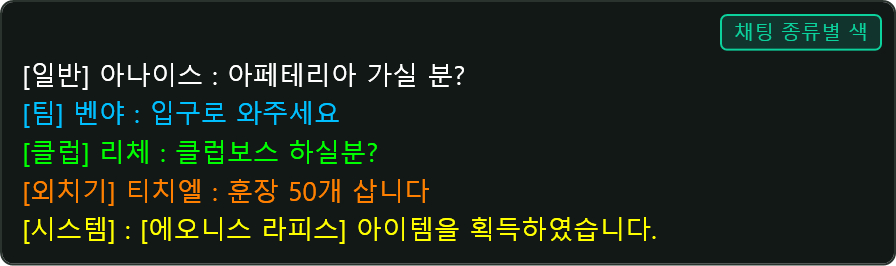
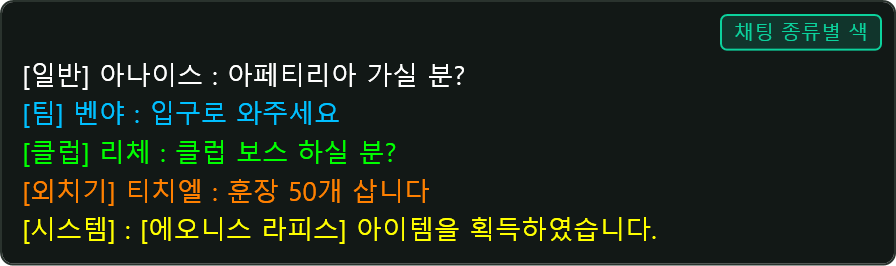
fix: 릴리즈 전 오타·표기 일괄 정리 + 도움말 이미지 재생성
- 도움말: '표시 되어질'→'표시할', '[혐사]으로'→'[혐사]로', '외치기 다시 보기'→'외치기 로그'(실제 UI 명칭), 서브 채팅창 탭 목록을 실제 5개(일반/팀/클럽/외치기/시스템)로 수정
- 잠금 해제 창 이름: '던전 카운터'→'던전 도우미', '탈환 보급 알림'→'보급품 탈환'
- 표기 통일: '일간/주간·콘텐츠'→'일일/주간 컨텐츠'(표시 문자열만, 저장 키 불변), '어밴던 누적 합계'→'어밴던로드 누적 합계', '1:1 채팅 에타레벨 확인'→'1:1 대화 에타 레벨 확인', '1 시간 예상'→'1시간 예상'
- 맞춤법: '초기화 진행중'→'진행 중', '이번달'→'이번 달', '로딩 중..'→'로딩 중...'
- 도움말 예시 텍스트: '아페테리아'→'아페티리아', '클럽보스 하실분'→'클럽 보스 하실 분', '5초후'→'5초 후' — 해당 이미지 7장 재생성
- 경험의 정수 교환 로그 매칭 상수 통일: '경험치가 100억이'→'경험치 100억이' (LogTextClassifier·아카이브와 일치)

Changed region(s): [[0.25, 0.5113, 0.4375, 0.6316], [0.3125, 0.2406, 0.3438, 0.3308]]

diff --git a/Views/Overlays/ItemCalendarWindow.xaml b/Views/Overlays/ItemCalendarWindow.xaml
@@ -53,7 +53,7 @@
                                 Margin="0,0,6,0"
                                 Style="{StaticResource CalendarTitleButtonStyle}"
                                 Click="PreviousMonth_Click"/>
-                        <Button Content="이번달"
+                        <Button Content="이번 달"
                                 Width="76"
                                 Margin="0,0,6,0"
                                 Style="{StaticResource CalendarTitleButtonStyle}"
@@ -378,7 +378,7 @@
                                     Padding="9"
                                     Margin="0,0,0,10">
                                 <StackPanel>
-                                    <TextBlock Text="어밴던 누적 합계"
+                                    <TextBlock Text="어밴던로드 누적 합계"
                                                Foreground="{DynamicResource TextBrush}"
                                                FontSize="{Binding ItemCalendarFontSize, Converter={StaticResource AddValueConverter}, ConverterParameter=1}"
                                                FontWeight="SemiBold"

diff --git a/Views/Controls/SettingsView.xaml b/Views/Controls/SettingsView.xaml
@@ -787,7 +787,7 @@
                             <Border Style="{StaticResource SettingsRowStyle}">
                                 <DockPanel>
                                     <TextBox DockPanel.Dock="Right" Width="120" Text="{Binding ToggleDailyWeeklyContentHotKey, Mode=TwoWay, UpdateSourceTrigger=PropertyChanged}" Style="{StaticResource SettingsRowInputStyle}" PreviewKeyDown="HotKeyInput_PreviewKeyDown" PreviewMouseLeftButtonDown="HotKeyTextBox_PreviewMouseLeftButtonDown" IsReadOnly="True" Tag="HotKey"/>
-                                    <TextBlock Text="일일/주간 콘텐츠" Style="{StaticResource SettingsRowLabelStyle}"/>
+                                    <TextBlock Text="일일/주간 컨텐츠" Style="{StaticResource SettingsRowLabelStyle}"/>
                                 </DockPanel>
                             </Border>
                             <Border Style="{StaticResource SettingsRowStyle}">

diff --git a/Views/Overlays/ShoutReplayWindow.xaml b/Views/Overlays/ShoutReplayWindow.xaml
@@ -117,7 +117,7 @@
                     </Border>
                     <Border x:Name="LoadingOverlay" Background="{DynamicResource OverlayLoadingMaskBrush}" Visibility="Collapsed" CornerRadius="2">
                         <StackPanel HorizontalAlignment="Center" VerticalAlignment="Center">
-                            <TextBlock Text="로딩 중.." Foreground="{DynamicResource TextBrush}" FontSize="18" HorizontalAlignment="Center"/>
+                            <TextBlock Text="로딩 중..." Foreground="{DynamicResource TextBrush}" FontSize="18" HorizontalAlignment="Center"/>
                             <ProgressBar IsIndeterminate="True" Width="180" Height="12" Margin="0,10,0,0"/>
                         </StackPanel>
                     </Border>

diff --git a/Views/Overlays/MessengerEtaToastWindow.xaml b/Views/Overlays/MessengerEtaToastWindow.xaml
@@ -39,7 +39,7 @@
                     MouseLeftButtonDown="TitleBar_MouseLeftButtonDown">
                 <Grid>
                     <TextBlock x:Name="TitleText"
-                               Text="1:1 채팅 에타레벨 확인"
+                               Text="1:1 대화 에타 레벨 확인"
                                Foreground="{DynamicResource TextBrush}"
                                FontSize="16"
                                FontWeight="SemiBold"

diff --git a/Views/Controls/ExpTrackerView.xaml b/Views/Controls/ExpTrackerView.xaml
@@ -92,7 +92,7 @@
                        FontWeight="Bold"/>
 
             <TextBlock Grid.Row="0" Grid.Column="2"
-                       Text="1 시간 예상 :"
+                       Text="1시간 예상 :"
                        Style="{StaticResource ExpFieldLabelStyle}"/>
             <TextBlock Grid.Row="0" Grid.Column="3"
                        Text="{Binding ExpPerHourDisplay}"

diff --git a/Views/Overlays/DailyWeeklyContentWindow.xaml b/Views/Overlays/DailyWeeklyContentWindow.xaml
@@ -4,7 +4,7 @@
         xmlns:views="clr-namespace:TWChatOverlay.Views"
         xmlns:models="clr-namespace:TWChatOverlay.Models"
         xmlns:converters="clr-namespace:TWChatOverlay.Converters"
-        Title="일간/주간 컨텐츠 확인"
+        Title="일일/주간 컨텐츠"
         Width="280" Height="540"
         Background="Transparent"
         AllowsTransparency="True"

diff --git a/Services/Diagnostics/HelpShotRenderer.cs b/Services/Diagnostics/HelpShotRenderer.cs
@@ -45,9 +45,9 @@ namespace TWChatOverlay.Services
 
             // ── 기본 채팅 필터: 종류별 색 한눈에 ──
             Save(outDir, "chat_filter.png", Panel("채팅 종류별 색",
-                Line(NormalCol, ("[일반] 아나이스 : 아페테리아 가실 분?", NormalCol)),
+                Line(NormalCol, ("[일반] 아나이스 : 아페티리아 가실 분?", NormalCol)),
                 Line(TeamCol, ("[팀] 벤야 : 입구로 와주세요", TeamCol)),
-                Line(ClubCol, ("[클럽] 리체 : 클럽보스 하실분?", ClubCol)),
+                Line(ClubCol, ("[클럽] 리체 : 클럽 보스 하실 분?", ClubCol)),
                 Line(ShoutCol, ("[외치기] 티치엘 : 훈장 50개 삽니다", ShoutCol)),
                 Line(SystemCol, ("[시스템] : [에오니스 라피스] 아이템을 획득하였습니다.",SystemCol))));
 
@@ -65,13 +65,13 @@ namespace TWChatOverlay.Services
             Save(outDir, "chat_id_eta_range_off.png", PanelToggle(false,
                 Line(NormalCol, ("보리스", NormalCol), ("[15]", NormalCol), (" : 반가워요", NormalCol)),
                 Line(NormalCol, ("벤야", NormalCol), ("[55]", NormalCol), (" : 어비스 가실 분?", NormalCol)),
-                Line(NormalCol, ("아나이스", NormalCol), ("[92]", NormalCol), (" : 클럽보스 5초후 잡아요", NormalCol))));
+                Line(NormalCol, ("아나이스", NormalCol), ("[92]", NormalCol), (" : 클럽 보스 5초 후 잡아요", NormalCol))));
             Save(outDir, "chat_id_eta_range_on.png", PanelToggle(true,
                 Line(NormalCol, ("보리스", NormalCol), ("[15]", Range1Col), (" : ㅎㅇ", NormalCol)),
                 Line(NormalCol, ("루시안", NormalCol), ("[33]", Range2Col), (" : 에오니스 라피스 팝니다", NormalCol)),
                 Line(NormalCol, ("벤야", NormalCol), ("[55]", Range3Col), (" : 어비스 가실 분?", NormalCol)),
                 Line(NormalCol, ("로아미니", NormalCol), ("[71]", Range4Col), (" : 상실의 섬으로 와주세요", NormalCol)),
-                Line(NormalCol, ("아나이스", NormalCol), ("[92]", Range5Col), (" : 클럽 보스 5초후 잡아요", NormalCol))));
+                Line(NormalCol, ("아나이스", NormalCol), ("[92]", Range5Col), (" : 클럽 보스 5초 후 잡아요", NormalCol))));
 
             // ── 캐릭터 ──
             Save(outDir, "chat_id_character_off.png", PanelToggle(false,
@@ -111,12 +111,12 @@ namespace TWChatOverlay.Services
             Save(outDir, "chat_category_prefix_off.png", PanelToggle(false,
                 Line(NormalCol, ("아나이스 : 어비스 가실 분?", NormalCol)),
                 Line(TeamCol, ("로아미니 : 상실의 섬으로 와주세요", TeamCol)),
-                Line(ClubCol, ("벤야 : 클럽 보스 5초후 잡아요", ClubCol)),
+                Line(ClubCol, ("벤야 : 클럽 보스 5초 후 잡아요", ClubCol)),
                 Line(ShoutCol, ("외치기 : 훈장 50개 삽니다 [티치엘]", ShoutCol))));
             Save(outDir, "chat_category_prefix_on.png", PanelToggle(true,
                 Line(NormalCol, ("[일반] ", NormalCol), ("아나이스 : 어비스 가실 분?", NormalCol)),
                 Line(TeamCol, ("[팀] ", TeamCol), ("로아미니 : 상실의 섬으로 와주세요", TeamCol)),
-                Line(ClubCol, ("[클럽] ", ClubCol), ("벤야 : 클럽 보스 5초후 잡아요", ClubCol)),
+                Line(ClubCol, ("[클럽] ", ClubCol), ("벤야 : 클럽 보스 5초 후 잡아요", ClubCol)),
                 Line(ShoutCol, ("[외치기] ", ShoutCol), ("티치엘", ShoutCol), (" : 훈장 50개 삽니다", ShoutCol))));
 
             // ── 서브 채팅창: 탭 전환 ──
@@ -1062,7 +1062,7 @@ namespace TWChatOverlay.Services
             }
             else
             {
-                lines.Children.Add(Line(NormalCol, ("아나이스 : 아페테리아 가실 분?", NormalCol)));
+                lines.Children.Add(Line(NormalCol, ("아나이스 : 아페티리아 가실 분?", NormalCol)));
                 lines.Children.Add(Line(TeamCol, ("[팀] 벤야 : 입구로 와주세요", TeamCol)));
                 lines.Children.Add(Line(SystemCol, ("[경험의 심장] 아이템을 사용하였습니다.", SystemCol)));
             }

diff --git a/Services/Data/HelpTopics.cs b/Services/Data/HelpTopics.cs
@@ -31,7 +31,7 @@ namespace TWChatOverlay.Services
 
             ["chat.filter"] = (
                 "기본 채팅 필터",
-                "기본 탭에 표시 되어질 채팅을 종류별로 선택합니다.\n" +
+                "기본 탭에 표시할 채팅을 종류별로 선택합니다.\n" +
                 "색상 버튼으로 해당 채팅의 글자 색을 바꿀 수 있습니다.",
                 new[] { "chat_filter.png" }),
 
@@ -68,7 +68,7 @@ namespace TWChatOverlay.Services
                 "아이디 태그",
                 "idtag.txt에 적어 둔 메모를 해당 아이디 뒤에 [태그]로 보여줍니다.\n" +
                 "[편집]을 눌러 메모장을 열고 \"아이디=태그\" 형식으로 한 줄씩 적으면 됩니다.\n" +
-                "예) 아나이스 = 혐사  →  채팅에서 아나이스[혐사]으로 표시\n" +
+                "예) 아나이스 = 혐사  →  채팅에서 아나이스[혐사]로 표시\n" +
                 "태그를 지우려면 idtag.txt에서 해당 줄을 삭제하면 됩니다." + ColorSyncGuide,
                 new[] { "chat_id_tag_off.png", "chat_id_tag_on.png" }),
 
@@ -93,7 +93,7 @@ namespace TWChatOverlay.Services
             ["chat.clone1"] = (
                 "서브 채팅창 1",
                 "메인 채팅창과 별도로 띄우는 추가 채팅창입니다. 최대 2개까지 열 수 있습니다.\n" +
-                "탭을 눌러 표시할 채팅 종류(기본/일반/팀/클럽/외치기/시스템/아이템)를 고를 수 있어\n" +
+                "탭을 눌러 표시할 채팅 종류(일반/팀/클럽/외치기/시스템)를 고를 수 있어\n" +
                 "예를 들어 메인은 대화, 서브는 외치기 전용으로 나눠 쓰기 좋습니다.\n" +
                 "위치·크기·폰트는 창마다 따로 저장됩니다.",
                 new[] { "chat_clone_basic.png", "chat_clone_shout.png" }),
@@ -101,7 +101,7 @@ namespace TWChatOverlay.Services
             ["chat.clone2"] = (
                 "서브 채팅창 2",
                 "메인 채팅창과 별도로 띄우는 추가 채팅창입니다. 최대 2개까지 열 수 있습니다.\n" +
-                "탭을 눌러 표시할 채팅 종류(기본/일반/팀/클럽/외치기/시스템/아이템)를 고를 수 있어\n" +
+                "탭을 눌러 표시할 채팅 종류(일반/팀/클럽/외치기/시스템)를 고를 수 있어\n" +
                 "예를 들어 메인은 대화, 서브는 외치기 전용으로 나눠 쓰기 좋습니다.\n" +
                 "위치·크기·폰트는 창마다 따로 저장됩니다.",
                 new[] { "chat_clone_basic.png", "chat_clone_shout.png" }),
@@ -119,7 +119,7 @@ namespace TWChatOverlay.Services
                 "외치기가 올라오면 화면에 토스트 알림으로 띄워 줍니다.\n" +
                 "'유지 시간(초)'으로 토스트가 떠 있는 시간을 조절합니다.\n" +
                 "트레이 최소화 중에는 토스트가 뜨지 않으며,\n" +
-                "놓친 외치기는 메뉴의 외치기 다시 보기에서 확인할 수 있습니다.",
+                "놓친 외치기는 메뉴의 외치기 로그에서 확인할 수 있습니다.",
                 new[] { "shout_toast_off.png", "shout_toast_on.png" }),
 
             ["shout.autocopy"] = (

diff --git a/Services/UI/UiLockService.cs b/Services/UI/UiLockService.cs
@@ -399,14 +399,14 @@ namespace TWChatOverlay.Services
                 "BossAlertToastWindow" => "필드 보스 알림창",
                 "ExpTrackerWindow" => "경험치 추적창",
                 "ExperienceAlertWindow" => "경험치 누적 알림",
-                "DungeonCountDisplayWindow" => "던전 카운터",
+                "DungeonCountDisplayWindow" => "던전 도우미",
                 "SubAddonWindow" => "에토스 방향 안내",
                 "ItemDropHelperWindow" => "아이템 드롭 알림",
                 "BuffTrackerHelperWindow" => "버프 추적",
                 "BuffTrackerWindow" => "버프 추적",
                 "ShoutToastWindow" => "외치기 팝업",
                 "MessengerEtaToastWindow" => "1:1 대화 에타 표시",
-                "RecaptureSupplyWindow" => "탈환 보급 알림",
+                "RecaptureSupplyWindow" => "보급품 탈환",
                 _ => string.IsNullOrWhiteSpace(window.Title) ? window.GetType().Name : window.Title,
             };
         }

diff --git a/Views/Shell/MainWindow.LogProcessing.cs b/Views/Shell/MainWindow.LogProcessing.cs
@@ -70,7 +70,7 @@ namespace TWChatOverlay.Views
             "어비스 - 심층Ⅲ(보스전) 플레이를 이번 주에 7회 중",
             "어비스 보스전(EX) 클리어 횟수:",
             "남은 에너지는",
-            "경험치가 100억이 차감되고, 경험의 정수 1개를 획득 하였습니다."
+            "경험치 100억이 차감되고, 경험의 정수 1개를 획득 하였습니다."
             ,"[경험의 정수] 아이템을 획득하였습니다."
             ,"[성난 빅테디의 별사탕] 아이템을 획득하였습니다."
             ,"레이티아 퇴치 보상으로 레이티아 보상 상자 (일반) 1개, 루비코나 코어 상자 20개를"

diff --git a/Views/Shell/InitialSetupWizardWindow.xaml.cs b/Views/Shell/InitialSetupWizardWindow.xaml.cs
@@ -30,7 +30,7 @@ namespace TWChatOverlay.Views
             new("7. 아이템 획득 알림 설정", "아이템 획득 알림 및 필터를 설정합니다.", true),
             new("8. 버프 추적 설정", "버프 추적 알림 및 종료 사운드를 설정합니다.", true),
             new("9. 필드 보스 알림 설정", "필드 보스 알림을 설정합니다.", false),
-            new("10. 일간/주간 컨텐츠 추적 설정", "일간/주간 컨텐츠 체크 항목을 설정합니다.", false)
+            new("10. 일일/주간 컨텐츠 추적 설정", "일일/주간 컨텐츠 체크 항목을 설정합니다.", false)
         };
 
         private int _stepIndex;

diff --git a/Views/Shell/MainWindow.xaml.cs b/Views/Shell/MainWindow.xaml.cs
@@ -866,7 +866,7 @@ namespace TWChatOverlay.Views
             _startupLoadingWindow.CancelRequested += StartupLoadingWindow_CancelRequested;
             _startupLoadingWindow.Show();
             _startupLoadingWindow.SetCancelEnabled(true);
-            _startupLoadingWindow.UpdateProgress(5, "초기화 진행중...");
+            _startupLoadingWindow.UpdateProgress(5, "초기화 진행 중...");
             if (LogDisplay != null)
             {
                 LogDisplay.BeginChange();
